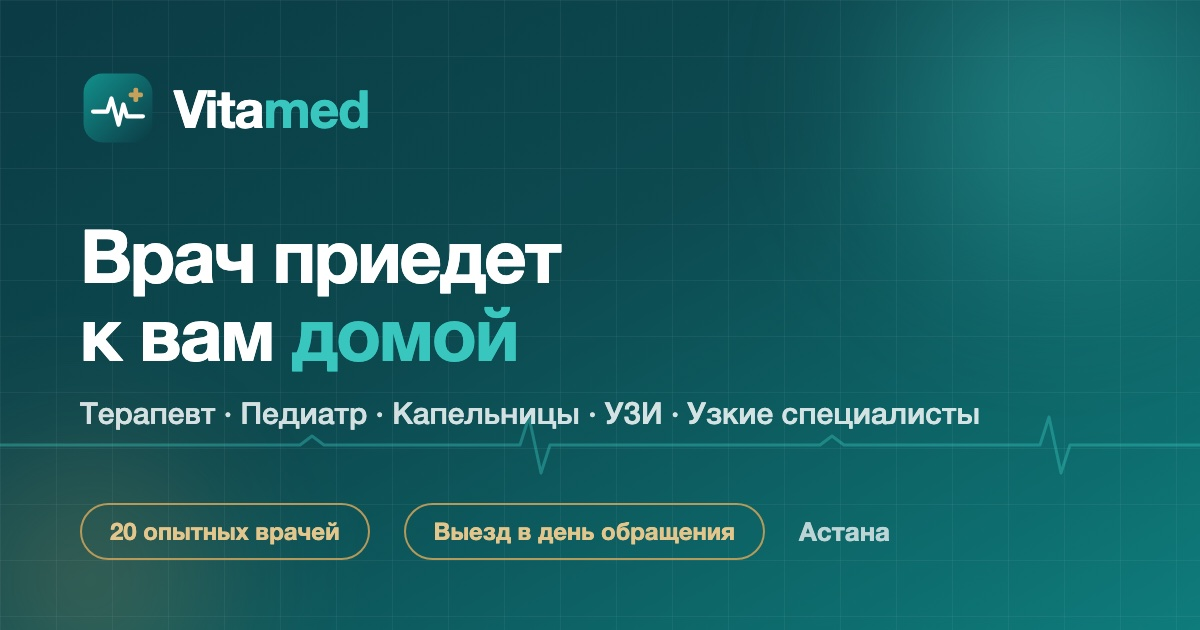
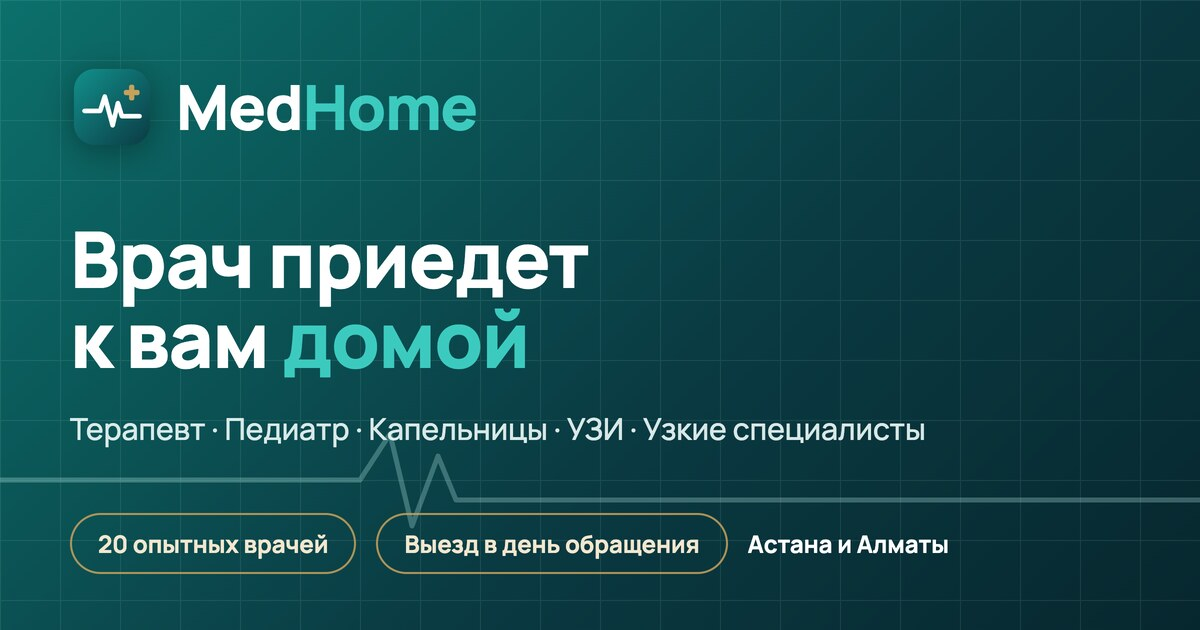
Rebrand Vitamed -> MedHome; add Almaty coverage
- brand name updated across title/meta/OG/JSON-LD, header+footer wordmark, alt/aria
- og-image regenerated (MedHome, «Астана и Алматы»)
- geography: Астана и Алматы (areaServed, hero, steps, contacts, footer)

diff --git a/index.html b/index.html
@@ -3,22 +3,22 @@
 <head>
   <meta charset="UTF-8">
   <meta name="viewport" content="width=device-width, initial-scale=1.0">
-  <title>Vitamed — вызов врача на дом в Астане | Терапевт, педиатр, капельницы, УЗИ на дому</title>
-  <meta name="description" content="Vitamed — выездная медицинская помощь на дому в Астане: терапевт, педиатр, капельницы и детоксикация, УЗИ на дому, узкие специалисты. Команда из 20 опытных врачей, стаж до 33 лет. Выезд в день обращения. Звоните: 8 747 222 15 90.">
+  <title>MedHome — вызов врача на дом в Астане и Алматы | Терапевт, педиатр, капельницы, УЗИ на дому</title>
+  <meta name="description" content="MedHome — выездная медицинская помощь на дому в Астане и Алматы: терапевт, педиатр, капельницы и детоксикация, УЗИ на дому, узкие специалисты. Команда из 20 опытных врачей, стаж до 33 лет. Выезд в день обращения. Звоните: 8 747 222 15 90.">
   <link rel="canonical" href="https://ali-hub-01.github.io/vitamed/">
   <meta name="theme-color" content="#0E7C7B">
 
   <!-- Open Graph -->
   <meta property="og:type" content="website">
-  <meta property="og:site_name" content="Vitamed">
-  <meta property="og:title" content="Vitamed — врач приедет к вам домой. Астана">
-  <meta property="og:description" content="Терапевт, педиатр, капельницы, УЗИ и узкие специалисты — на дому. 20 опытных врачей, выезд по Астане в день обращения.">
+  <meta property="og:site_name" content="MedHome">
+  <meta property="og:title" content="MedHome — врач приедет к вам домой. Астана и Алматы">
+  <meta property="og:description" content="Терапевт, педиатр, капельницы, УЗИ и узкие специалисты — на дому. 20 опытных врачей, выезд по Астане и Алматы в день обращения.">
   <meta property="og:url" content="https://ali-hub-01.github.io/vitamed/">
   <meta property="og:image" content="https://ali-hub-01.github.io/vitamed/assets/og-image.jpg">
   <meta property="og:locale" content="ru_RU">
   <!-- Twitter -->
   <meta name="twitter:card" content="summary_large_image">
-  <meta name="twitter:title" content="Vitamed — врач приедет к вам домой. Астана">
+  <meta name="twitter:title" content="MedHome — врач приедет к вам домой. Астана и Алматы">
   <meta name="twitter:description" content="Выездная медицинская помощь: 20 опытных врачей, все специальности, выезд в день обращения.">
   <meta name="twitter:image" content="https://ali-hub-01.github.io/vitamed/assets/og-image.jpg">
 
@@ -34,10 +34,10 @@
   {
     "@context": "https://schema.org",
     "@type": "MedicalBusiness",
-    "name": "Vitamed",
-    "description": "Выездные медицинские услуги на дому в Астане: терапевт, педиатр, капельницы и детоксикация, УЗИ на дому, узкие специалисты.",
+    "name": "MedHome",
+    "description": "Выездные медицинские услуги на дому в Астане и Алматы: терапевт, педиатр, капельницы и детоксикация, УЗИ на дому, узкие специалисты.",
     "telephone": "+77472221590",
-    "areaServed": "Астана",
+    "areaServed": ["Астана", "Алматы"],
     "url": "https://ali-hub-01.github.io/vitamed/",
     "image": "https://ali-hub-01.github.io/vitamed/assets/og-image.jpg"
   }
@@ -48,9 +48,9 @@
   <!-- ===== HEADER ===== -->
   <header class="header" id="header">
     <div class="container header-inner">
-      <a href="#" class="logo" aria-label="Vitamed — на главную">
-        <img src="assets/logo-icon.svg" alt="Логотип Vitamed" class="logo-icon" width="44" height="44">
-        <span class="logo-word">Vita<em>med</em></span>
+      <a href="#" class="logo" aria-label="MedHome — на главную">
+        <img src="assets/logo-icon.svg" alt="Логотип MedHome" class="logo-icon" width="44" height="44">
+        <span class="logo-word">Med<em>Home</em></span>
       </a>
       <nav class="nav" id="nav" aria-label="Основная навигация">
         <a href="#uslugi" class="nav-link">Услуги</a>
@@ -83,12 +83,12 @@
 
     <div class="container hero-inner">
       <div class="hero-text">
-        <p class="hero-badge reveal"><span class="pulse-dot" aria-hidden="true"></span>Выездная медицина · Астана</p>
+        <p class="hero-badge reveal"><span class="pulse-dot" aria-hidden="true"></span>Выездная медицина · Астана и Алматы</p>
         <h1 class="hero-title">
           <span class="line reveal">Врач приедет</span>
           <span class="line reveal d-1">к вам <span class="accent-word">домой</span></span>
         </h1>
-        <p class="hero-sub reveal d-2">Команда из 20 опытных врачей Vitamed: терапевты, педиатры, узкие специалисты. Приём, капельницы и&nbsp;УЗИ&nbsp;— у&nbsp;вас дома, в&nbsp;день обращения.</p>
+        <p class="hero-sub reveal d-2">Команда из 20 опытных врачей MedHome: терапевты, педиатры, узкие специалисты. Приём, капельницы и&nbsp;УЗИ&nbsp;— у&nbsp;вас дома, в&nbsp;день обращения.</p>
         <div class="hero-cta reveal d-3">
           <a href="https://wa.me/77472221590" class="btn btn-gold btn-lg" target="_blank" rel="noopener">
             <svg viewBox="0 0 24 24" width="20" height="20" fill="currentColor" aria-hidden="true"><path d="M17.47 14.38c-.3-.15-1.77-.87-2.04-.97-.27-.1-.47-.15-.67.15-.2.3-.77.97-.94 1.17-.17.2-.35.22-.65.07-.3-.15-1.26-.46-2.4-1.48-.89-.79-1.49-1.77-1.66-2.07-.17-.3-.02-.46.13-.61.13-.13.3-.35.45-.52.15-.17.2-.3.3-.5.1-.2.05-.37-.02-.52-.08-.15-.67-1.62-.92-2.22-.24-.58-.49-.5-.67-.51l-.57-.01c-.2 0-.52.07-.8.37-.27.3-1.04 1.02-1.04 2.5 0 1.47 1.07 2.89 1.22 3.09.15.2 2.11 3.22 5.1 4.51.71.31 1.27.49 1.7.63.72.23 1.37.2 1.88.12.58-.09 1.77-.72 2.02-1.42.25-.7.25-1.3.17-1.42-.07-.12-.27-.2-.57-.35M12.05 21.79h-.01a9.8 9.8 0 0 1-4.98-1.36l-.36-.21-3.7.97.99-3.61-.24-.37a9.77 9.77 0 0 1-1.5-5.22c0-5.4 4.4-9.79 9.81-9.79a9.75 9.75 0 0 1 9.79 9.8c0 5.4-4.4 9.79-9.8 9.79m8.33-18.11A11.7 11.7 0 0 0 12.04 0C5.5 0 .16 5.33.16 11.88c0 2.1.55 4.14 1.59 5.94L.06 24l6.33-1.66a11.85 11.85 0 0 0 5.65 1.44h.01c6.54 0 11.87-5.33 11.87-11.88 0-3.18-1.24-6.16-3.49-8.4"/></svg>
@@ -109,13 +109,13 @@
         <div class="hero-card">
           <div class="hero-card-top">
             <div class="avatar-stack">
-              <img src="assets/doctors/ahmetov.webp" alt="Врачи команды Vitamed" width="56" height="70">
+              <img src="assets/doctors/ahmetov.webp" alt="Врачи команды MedHome" width="56" height="70">
               <img src="assets/doctors/zhylkibaeva.webp" alt="" width="56" height="70">
               <img src="assets/doctors/iskandir.webp" alt="" width="56" height="70">
               <img src="assets/doctors/utebaev.webp" alt="" width="56" height="70">
               <span class="avatar-more">+16</span>
             </div>
-            <p class="hero-card-note">Команда Vitamed — реальные врачи с&nbsp;опытом от&nbsp;5&nbsp;до&nbsp;33&nbsp;лет</p>
+            <p class="hero-card-note">Команда MedHome — реальные врачи с&nbsp;опытом от&nbsp;5&nbsp;до&nbsp;33&nbsp;лет</p>
           </div>
           <div class="ecg-wrap">
             <svg class="ecg" viewBox="0 0 600 110" preserveAspectRatio="none" aria-hidden="true">
@@ -131,7 +131,7 @@
             </div>
             <div class="hero-chip">
               <svg viewBox="0 0 24 24" width="16" height="16" fill="none" stroke="currentColor" stroke-width="2" stroke-linecap="round" stroke-linejoin="round" aria-hidden="true"><path d="M12 21s-7-4.4-7-10a7 7 0 0 1 14 0c0 5.6-7 10-7 10z"/><circle cx="12" cy="11" r="2.5"/></svg>
-              По всей Астане
+              Астана и Алматы
             </div>
           </div>
         </div>
@@ -499,10 +499,10 @@
     </div>
   </section>
 
-  <!-- ===== ПОЧЕМУ VITAMED ===== -->
+  <!-- ===== ПОЧЕМУ MEDHOME ===== -->
   <section class="section section-ivory" id="pochemu-my">
     <div class="container">
-      <p class="eyebrow reveal">Почему Vitamed</p>
+      <p class="eyebrow reveal">Почему MedHome</p>
       <h2 class="section-title reveal">Медицина, которой доверяют семьи</h2>
 
       <div class="counters reveal">
@@ -529,7 +529,7 @@
         <div class="why-item reveal d-1">
           <div class="why-icon" aria-hidden="true"><svg viewBox="0 0 24 24" width="22" height="22" fill="none" stroke="currentColor" stroke-width="1.8" stroke-linecap="round" stroke-linejoin="round"><circle cx="12" cy="12" r="9"/><path d="M12 7v5l3 3"/></svg></div>
           <h3>Выезд в день обращения</h3>
-          <p>Работаем по всей Астане. Врач приезжает быстро — без записи за неделю и&nbsp;очередей.</p>
+          <p>Работаем по Астане и Алматы. Врач приезжает быстро — без записи за неделю и&nbsp;очередей.</p>
         </div>
         <div class="why-item reveal d-2">
           <div class="why-icon" aria-hidden="true"><svg viewBox="0 0 24 24" width="22" height="22" fill="none" stroke="currentColor" stroke-width="1.8" stroke-linecap="round" stroke-linejoin="round"><path d="M9 21c-3.5-1.7-6-4.6-6-8.5V6l6-2.5L15 6v3"/><circle cx="16" cy="16" r="4.5"/><path d="M14.2 16l1.3 1.3 2.3-2.5"/></svg></div>
@@ -631,7 +631,7 @@
             <svg viewBox="0 0 24 24" width="24" height="24" fill="none" stroke="currentColor" stroke-width="1.8" stroke-linecap="round" stroke-linejoin="round"><path d="M12 21s-7-4.4-7-10a7 7 0 0 1 14 0c0 5.6-7 10-7 10z"/><circle cx="12" cy="11" r="2.5"/></svg>
           </div>
           <span class="contact-label">Город</span>
-          <strong>Астана — выезд по всему городу</strong>
+          <strong>Астана и Алматы — выезд по городу</strong>
         </div>
       </div>
     </div>
@@ -641,9 +641,9 @@
   <footer class="footer">
     <div class="container">
       <div class="footer-top">
-        <a href="#" class="logo logo-footer" aria-label="Vitamed">
-          <img src="assets/logo-icon.svg" alt="Логотип Vitamed" class="logo-icon" width="40" height="40" loading="lazy" decoding="async">
-          <span class="logo-word">Vita<em>med</em></span>
+        <a href="#" class="logo logo-footer" aria-label="MedHome">
+          <img src="assets/logo-icon.svg" alt="Логотип MedHome" class="logo-icon" width="40" height="40" loading="lazy" decoding="async">
+          <span class="logo-word">Med<em>Home</em></span>
         </a>
         <nav class="footer-nav" aria-label="Навигация в подвале">
           <a href="#uslugi">Услуги</a>
@@ -662,7 +662,7 @@
         </svg>
       </div>
       <p class="footer-disclaimer">Не является скорой/экстренной помощью. При угрозе жизни звоните 103. Имеются противопоказания, необходима консультация специалиста.</p>
-      <p class="footer-copy">© <span id="year">2026</span> Vitamed · Выездные медицинские услуги · Астана</p>
+      <p class="footer-copy">© <span id="year">2026</span> MedHome · Выездные медицинские услуги · Астана и Алматы</p>
     </div>
   </footer>
 
